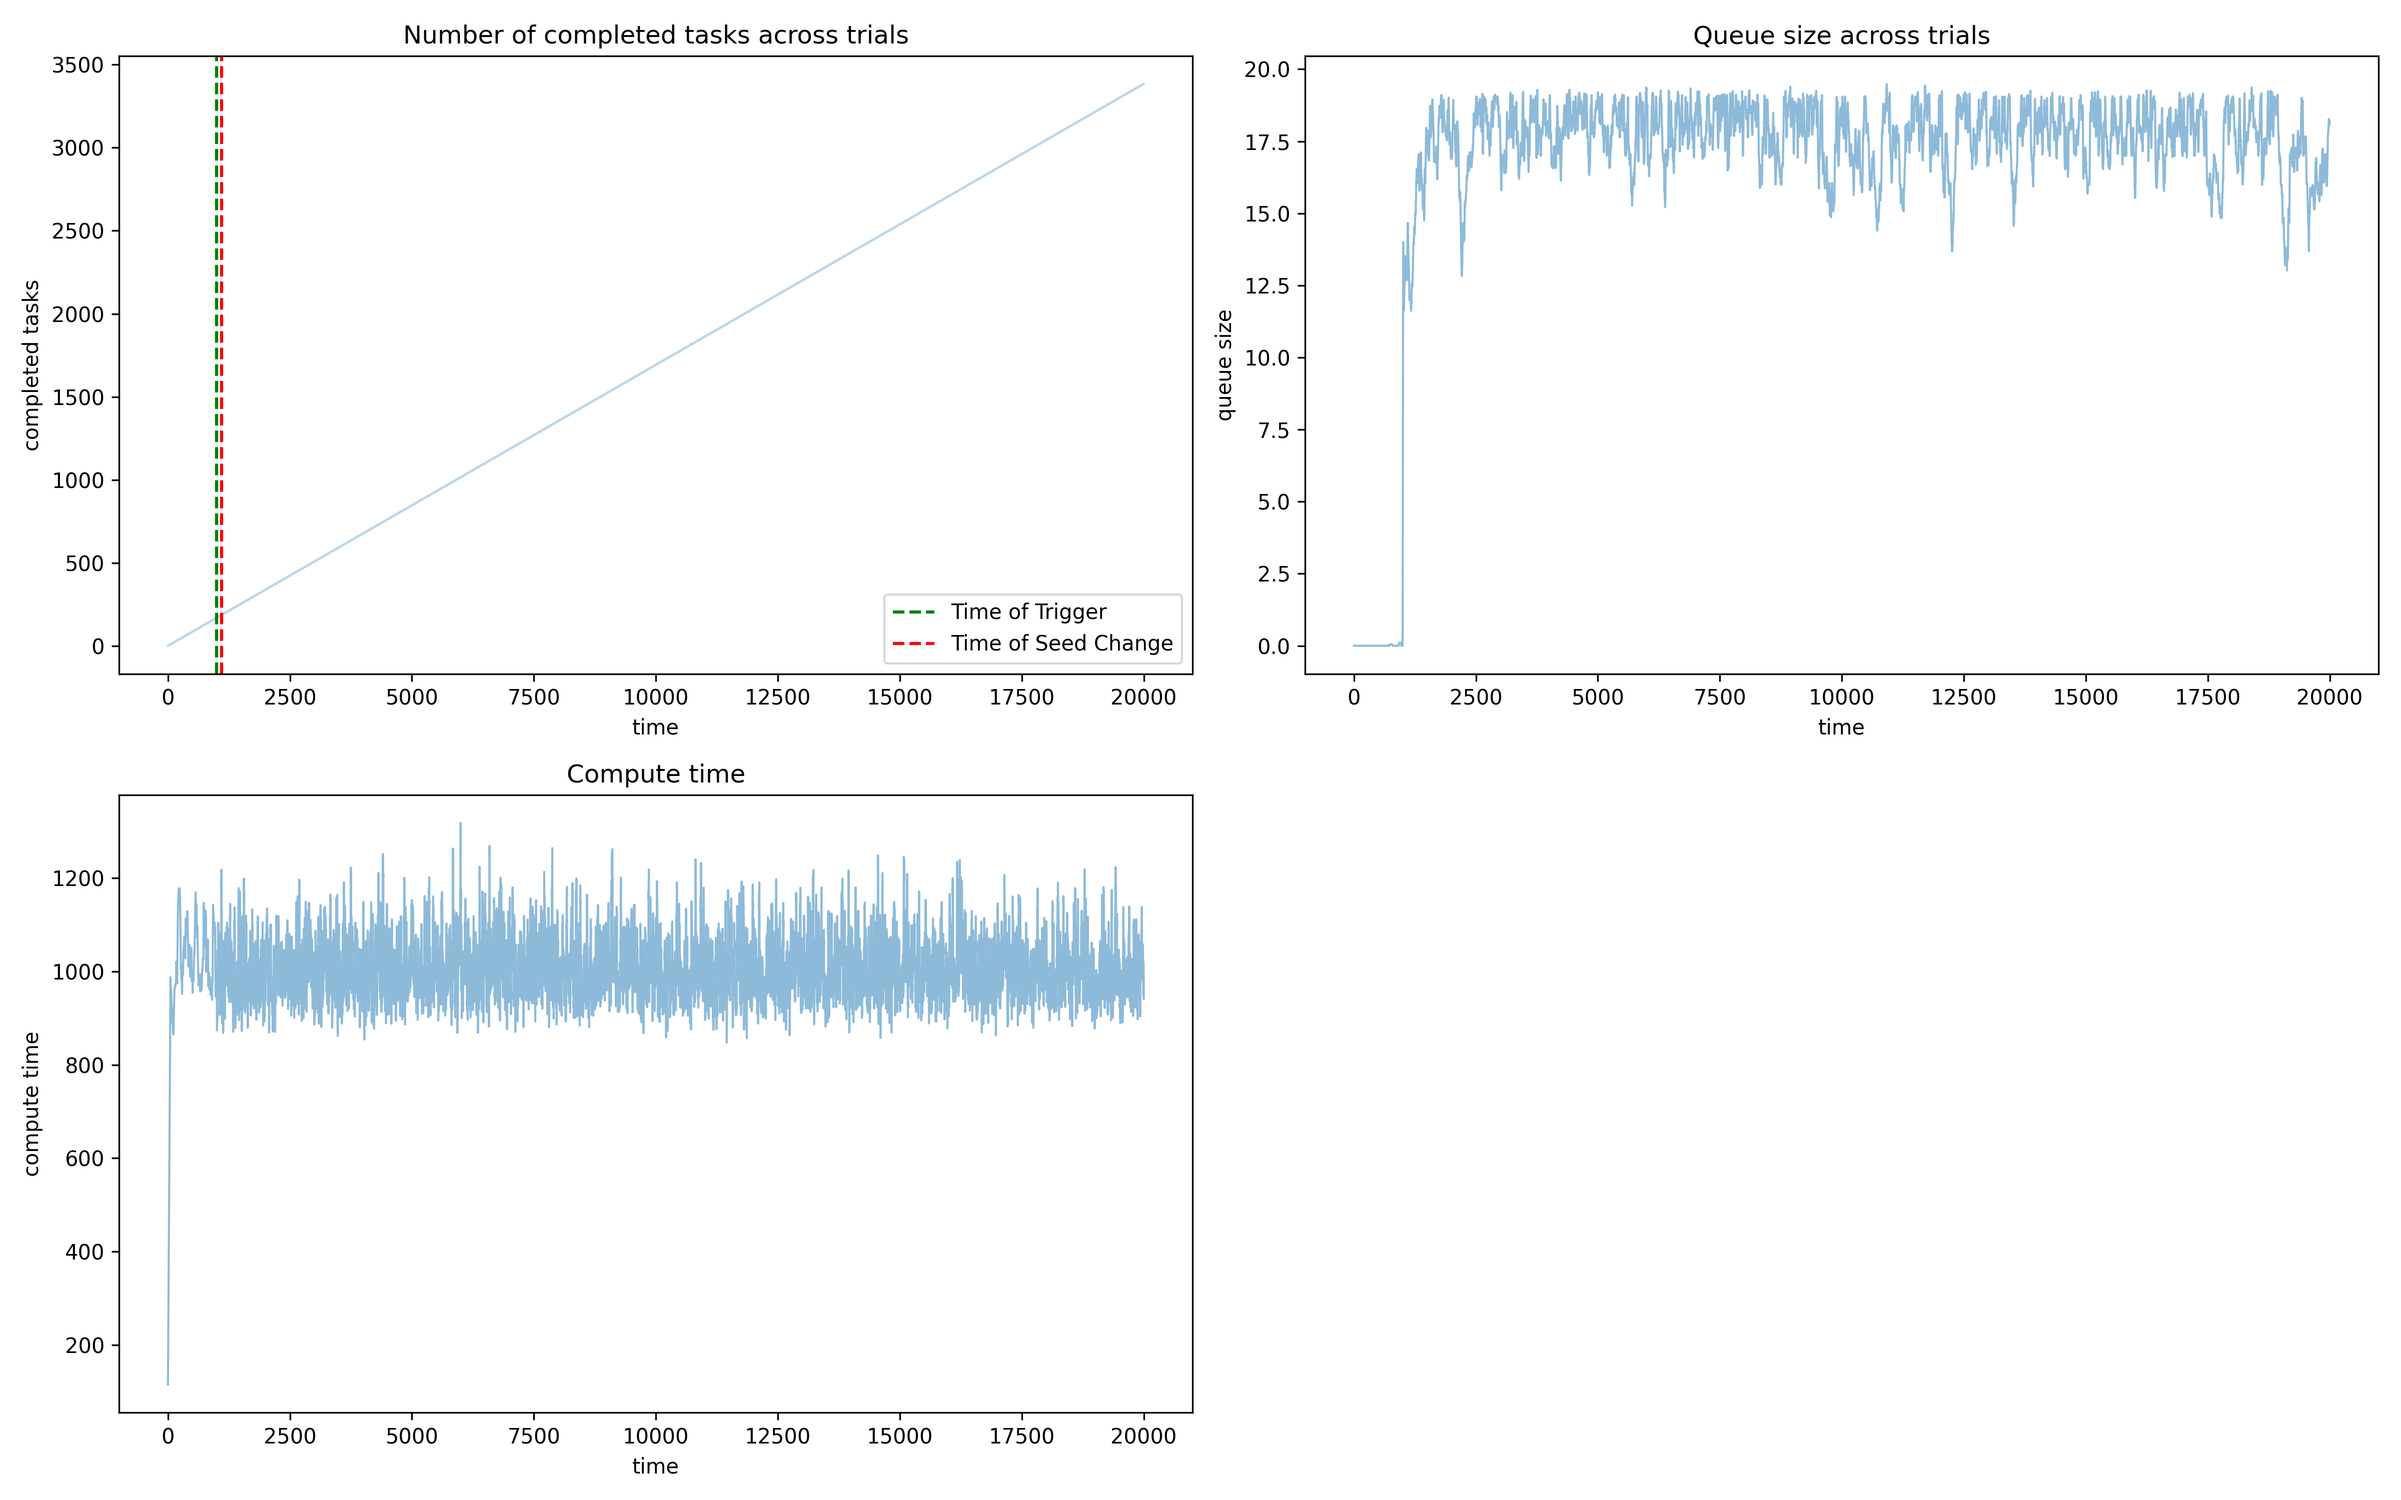
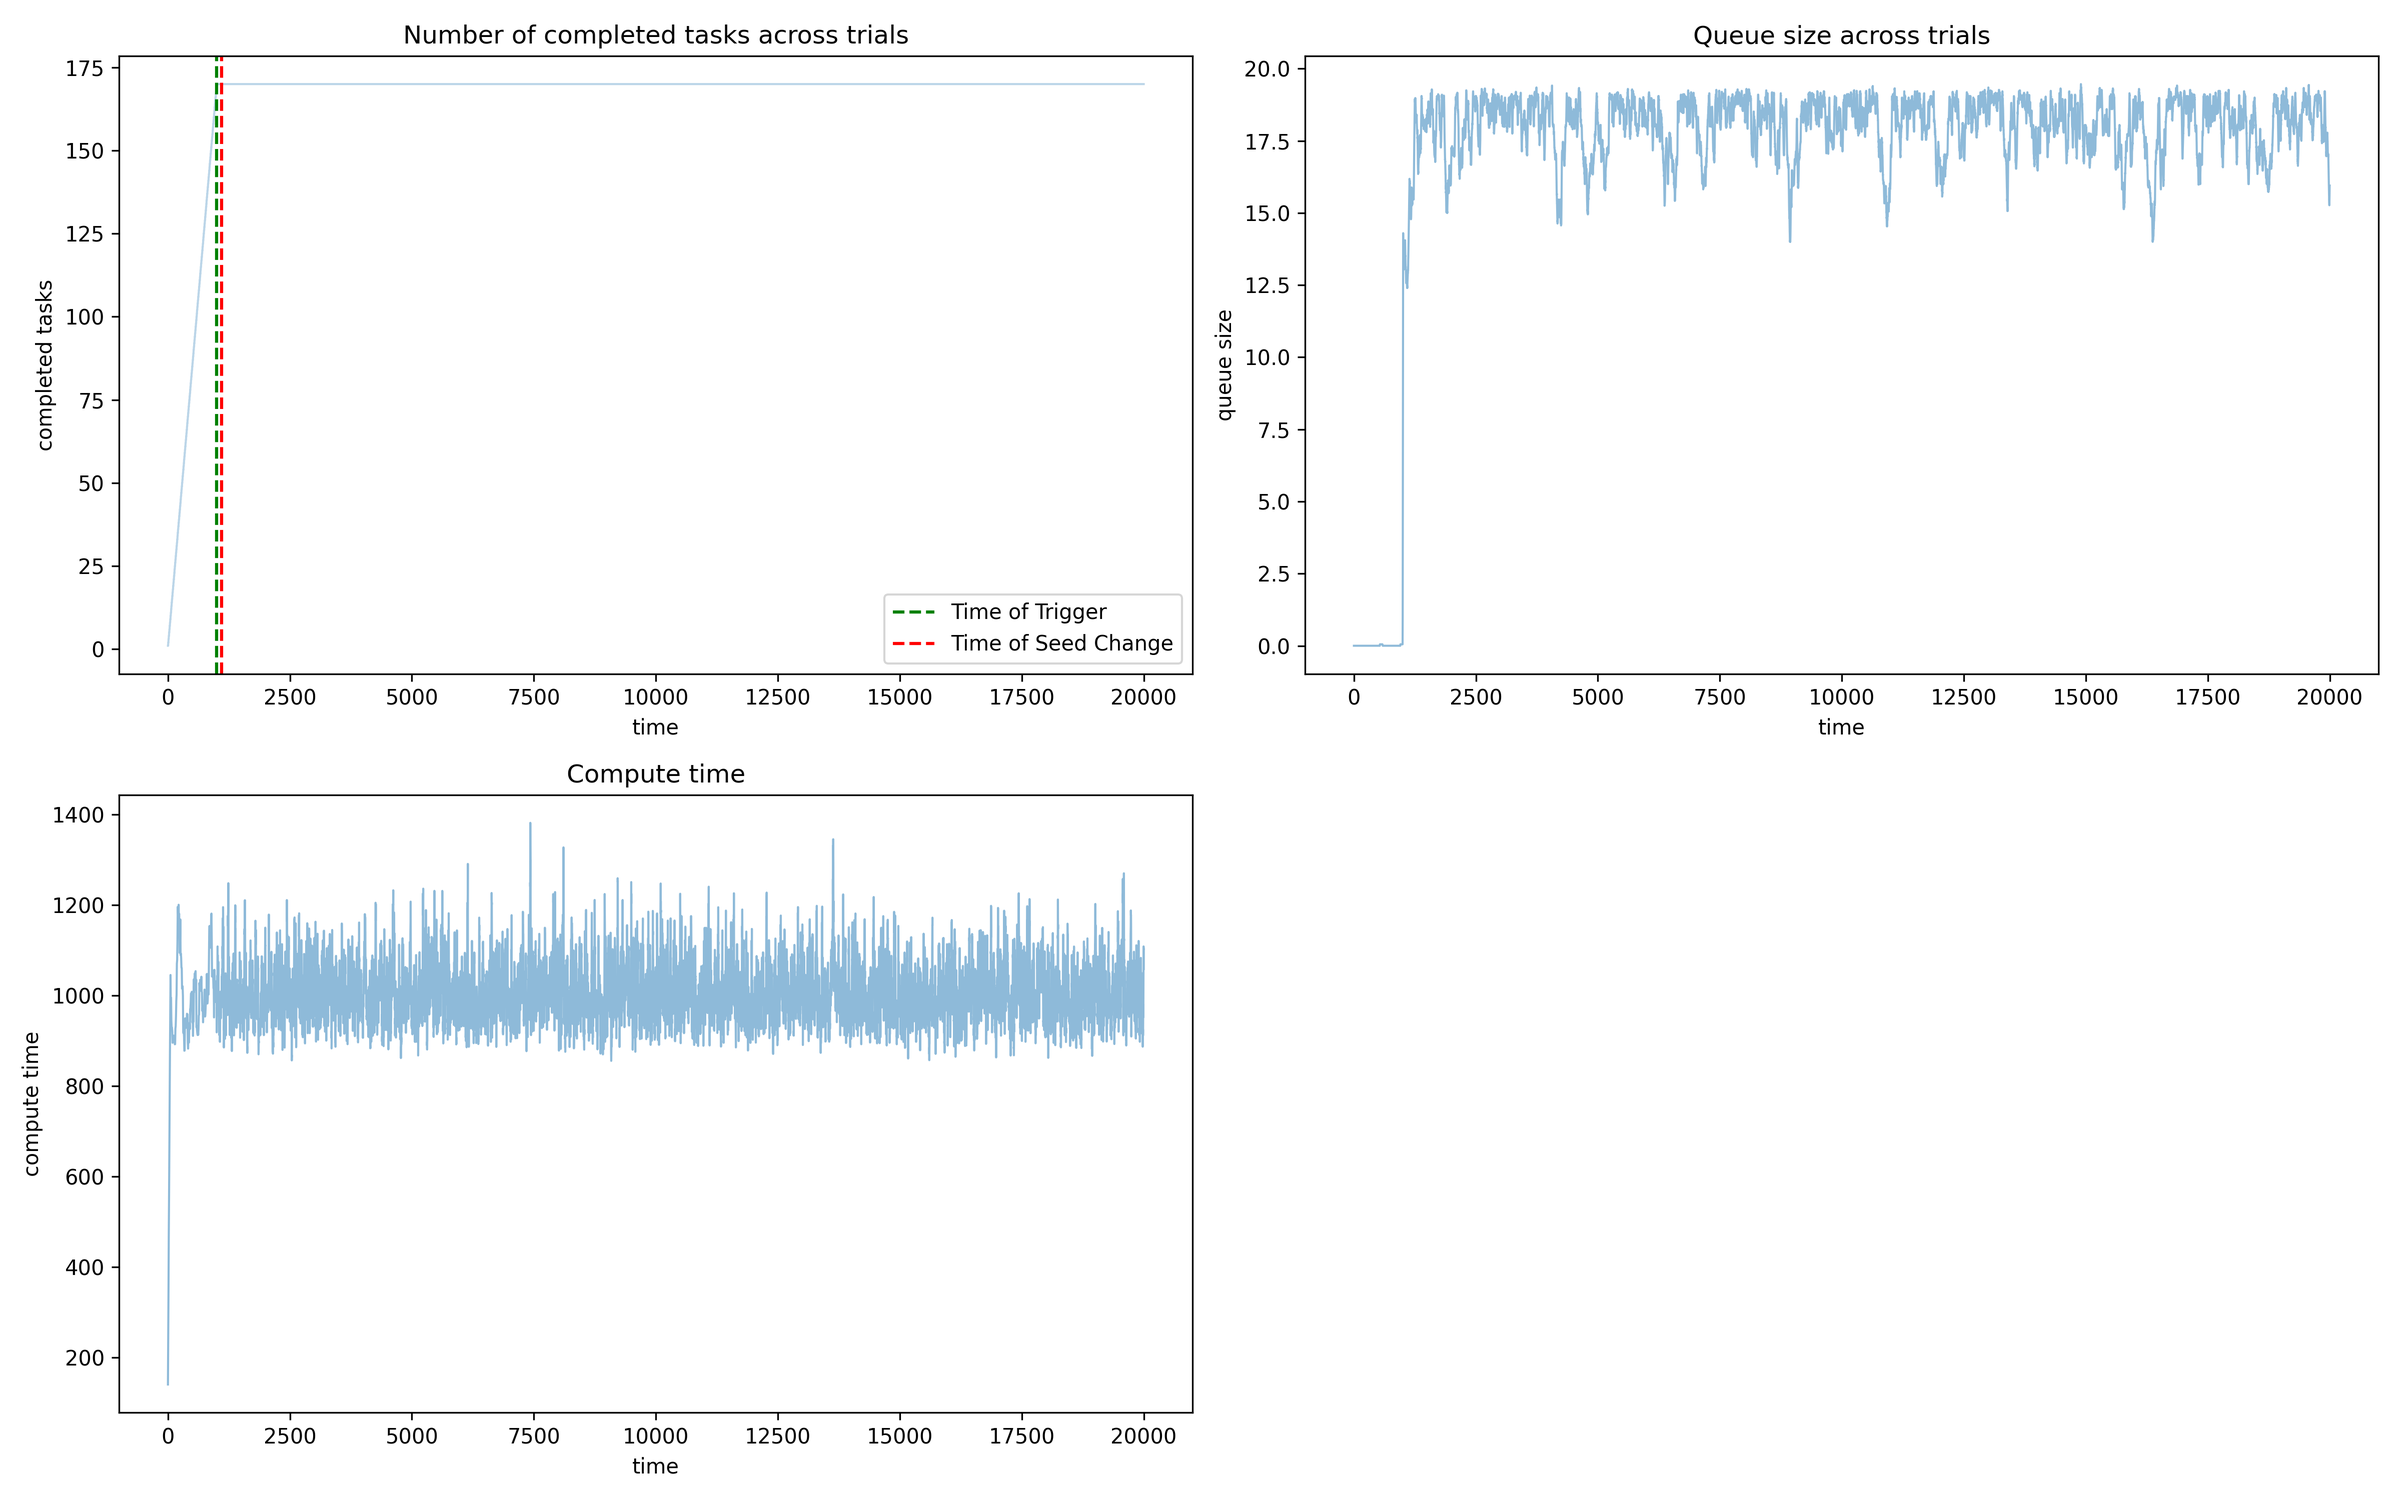
make client retry time independent of queue htiting max size

Changed region(s): [[0.0625, 0.558, 0.5, 0.713], [0.5625, 0.062, 0.9688, 0.155], [0.0, 0.186, 0.0312, 0.279]]

diff --git a/constant_submit_rate.py b/constant_submit_rate.py
@@ -1,4 +1,7 @@
 import concurrent.futures
+from collections import deque
+from collections.abc import Callable
+from dataclasses import dataclass
 from typing import TYPE_CHECKING, Any
 
 import matplotlib.pyplot as plt
@@ -11,33 +14,35 @@ from des.sim import (
     EventLoop,
     Ref,
     RunResult,
+    StateMachineBase,
     Timeout,
-    ask,
+    handle,
     launch,
     log,
     now,
     rng,
-    self,
     send,
     sleep,
     spawn,
     spawn_interface,
+    this,
+    wait,
     wait_timeout,
 )
-from des.stdlib import LaunchedStateMachine, Queue, Semaphore
+from des.stdlib import LaunchedStateMachine, Semaphore
 
 if TYPE_CHECKING:
     from matplotlib.axes import Axes
 
 
-def constant_retry(wait_time: int):
+def constant_rate(wait_time: int):
     def policy(_try_num: int) -> int:
         return wait_time
 
     return policy
 
 
-def linear_backoff_retry(base_wait_time: int, per_try: int):
+def linear_backoff(base_wait_time: int, per_try: int):
     def policy(try_num: int) -> int:
         return base_wait_time + (per_try * try_num)
 
@@ -54,6 +59,14 @@ def smooth_series(series: pl.Series, avg_window: int) -> pl.Series:
     )
 
 
+TASK_DONE = "task done"
+WORKER_COMPLETED = "work_completed"
+QUEUE_SIZE = "queue size"
+CLIENT_SUBMIT = "client submit"
+CLIENT_RETRY = "client retry"
+TASK_FAILED = "task failed"
+
+
 def analyze_data(result: RunResult):
     max_epoch_s = max(e.epoch for e in result.logs) // 1000 + 1
 
@@ -64,7 +77,7 @@ def analyze_data(result: RunResult):
             [
                 (entry.data["start"] // 1000,)
                 for entry in result.logs
-                if entry.msg == "done" and entry.addr.name.startswith("client")
+                if entry.msg == TASK_DONE
             ],
             schema=["epoch"],
             orient="row",
@@ -91,7 +104,7 @@ def analyze_data(result: RunResult):
             [
                 (entry.epoch // 1000, entry.data["size"])
                 for entry in result.logs
-                if entry.msg == "queue size"
+                if entry.msg == QUEUE_SIZE
             ],
             schema=["epoch", "size"],
             orient="row",
@@ -108,7 +121,7 @@ def analyze_data(result: RunResult):
             [
                 (entry.epoch // 3000)
                 for entry in result.logs
-                if entry.addr.name.startswith("client") and entry.msg == "submit"
+                if entry.msg == CLIENT_SUBMIT
             ],
             schema=["epoch"],
             orient="row",
@@ -123,7 +136,11 @@ def analyze_data(result: RunResult):
 
     retries = (
         pl.DataFrame(
-            [(entry.epoch // 3000) for entry in result.logs if entry.msg == "retry"],
+            [
+                (entry.epoch // 3000)
+                for entry in result.logs
+                if entry.msg == CLIENT_RETRY
+            ],
             schema=["epoch"],
             orient="row",
         )
@@ -148,7 +165,7 @@ def analyze_data(result: RunResult):
                     entry.data["compute_time"],
                 )
                 for entry in result.logs
-                if entry.msg == "work_completed"
+                if entry.msg == WORKER_COMPLETED
             ],
             schema=["epoch", "compute_time"],
             orient="row",
@@ -169,111 +186,153 @@ def analyze_data(result: RunResult):
     }
 
 
+class Queue[T](StateMachineBase):
+    def __init__(self, capacity: int, log_event: str = "queue size"):
+        self._capacity = capacity
+        self._items = deque[T]()
+        self._waiters: deque[tuple[Addr, Ref]] = deque()
+        self._log_event = log_event
+
+    def _log_size(self):
+        log(self._log_event, size=len(self._items))
+
+    @handle()
+    async def try_enqueue(self, item: T, result: tuple[Addr, Ref] | None = None):
+        """Attempt to enqueue an item.
+        If result is provided, it sends `True` if it was enqueued, `False` if full.
+        """
+        if len(self._items) >= self._capacity:
+            if result is not None:
+                send(*result, False)
+        else:
+            self._items.append(item)
+            while self._waiters and self._items:
+                send(*self._waiters.popleft(), self._items.popleft())
+            self._log_size()
+            if result is not None:
+                send(*result, True)
+
+    @handle()
+    async def _dequeue(self, sender: Addr, ref: Ref):
+        if self._items:
+            send(sender, ref, self._items.popleft())
+            self._log_size()
+        else:
+            self._waiters.append((sender, ref))
+
+    async def dequeue(self, timeout: int | None = None) -> T:
+        """Dequeue an item, waiting up to timeout if specified.
+        If timeout is provided, and no item is available within the timeout,
+        raises `des.sim.Timeout`.
+        """
+        self._dequeue(this(), ref := Ref())
+        if timeout is None:
+            result, *_ = await wait(ref)
+        else:
+            result, *_ = await wait_timeout(timeout, ref)
+        return result
+
+
 def experiment2(
     work_time: int = 1000,
     work_time_rand: int = 200,
     timeout: int = 1900,
-    retry_delay: int = 100,
     inter_sleep: int = 4000,
     trigger_delay: int = 1_000_000,
     shared_seed: int = 0,
     local_seed: int = 100,
 ):
-    this = self
+    class Worker(LaunchedStateMachine):
+        def __init__(self, queue: Queue[tuple[Addr, WorkItem]]):
+            self._queue = queue
 
-    queue_addr = Addr("queue")
-    queue = Queue[tuple[Addr, Ref]](queue_addr)
-
-    class Worker:
-        def __init__(self, addr: Addr):
-            self.queue_addr = addr
-
-        async def submit(self, ref: Ref, timeout: int) -> bool:
-            log("submit", ref=ref)
-            if await ask(self.queue_addr, Queue.Enqueue, (this(), ref)) is Queue.Full:
-                log("fail", ref=ref, reason="full")
-                return False
-            try:
-                await wait_timeout(timeout, ref)
-            except Timeout:
-                log("fail", ref=ref, reason="timeout")
-                return False
-            return True
-
-    worker = Worker(queue_addr)
-
-    def create_worker():
-        @launch
-        async def worker_process():
+        async def start(self):
             while True:
-                addr, ref = await queue.dequeue()
+                addr, ref = await self._queue.dequeue()
                 compute_time = (
                     work_time
                     - work_time_rand
                     + int(rng().expovariate(1 / work_time_rand))
                 )
                 await sleep(compute_time)
-                log("work_completed", ref=ref, compute_time=compute_time)
+                log(WORKER_COMPLETED, ref=ref, compute_time=compute_time)
                 send(addr, ref, hint="done")
 
-        return worker_process
-
     class BackgroundSubmit(LaunchedStateMachine):
-        def __init__(self, worker: Worker, ref: Ref, semaphore: Semaphore):
-            self.worker = worker
-            self.ref = ref
+        def __init__(
+            self,
+            worker_queue: Queue[tuple[Addr, WorkItem]],
+            semaphore: Semaphore,
+            timeout_policy: Callable[[int], int],
+        ):
+            self.worker_queue = worker_queue
             self.semaphore = semaphore
+            self.timeout_policy = timeout_policy
 
         async def start(self):
             await self.semaphore.acquire()
             start_time = now()
-            retries = 0
-            while not await worker.submit(self.ref, timeout=timeout):
-                retries += 1
-                if retries >= 6:
-                    log("abandon", ref=self.ref, retries=retries)
-                    break
-                log("retry", ref=self.ref, retries=retries)
-                await sleep(retry_delay)
-            self.semaphore.release()
-            log(
-                "done",
-                ref=self.ref,
-                retries=retries,
-                start=start_time,
-                duration=now() - start_time,
-            )
-
-    def create_client():
-        @launch
-        async def client():
-            semaphore = spawn_interface(Semaphore(max_count=4), name="semaphore")
-
+            num_retries = 0
+            # TODO: should this be before or after acquiring the semaphore?
+            log(CLIENT_SUBMIT)
             while True:
-                ref = Ref()
-                spawn(
-                    BackgroundSubmit(worker=worker, ref=ref, semaphore=semaphore),
-                    name="submit",
-                )
-                print("spawned", now())
-                await sleep(timeout + inter_sleep)
+                item = WorkItem(Ref())
+                self.worker_queue.try_enqueue((this(), item))
+                try:
+                    await wait_timeout(self.timeout_policy(num_retries), item)
+                    log(
+                        TASK_DONE,
+                        retries=num_retries,
+                        start=start_time,
+                        duration=now() - start_time,
+                    )
+                    break
+                except Timeout:
+                    num_retries += 1
+                if num_retries >= 6:
+                    log(TASK_FAILED)
+                    break
+            self.semaphore.release()
 
-        return client
+    @dataclass
+    class WorkItem:
+        """Newtype of `Ref` to make it clear that this does not represent a simple response channel."""
 
-    def create_trigger():
-        @launch
-        async def trigger():
+        id: Ref
+
+    class Trigger(LaunchedStateMachine):
+        def __init__(self, worker_queue: Queue[tuple[Addr, WorkItem]]):
+            self.worker_queue = worker_queue
+
+        async def start(self):
             await sleep(trigger_delay)
             for _ in range(20):
-                await worker.submit(Ref(), timeout=50)
+                self.worker_queue.try_enqueue((this(), WorkItem(Ref())))
+                await sleep(50)
 
-        return trigger
+    @launch
+    async def main():
+        worker_queue = spawn_interface(
+            Queue[tuple[Addr, WorkItem]](capacity=20, log_event=QUEUE_SIZE),
+            name="worker_queue",
+        )
+        spawn(Worker(queue=worker_queue), name="worker")
+        semaphore = spawn_interface(Semaphore(max_count=4), name="semaphore")
+        spawn(Trigger(worker_queue=worker_queue), name="trigger")
+
+        while True:
+            spawn(
+                BackgroundSubmit(
+                    worker_queue=worker_queue,
+                    semaphore=semaphore,
+                    timeout_policy=constant_rate(timeout),
+                ),
+                name="submit",
+            )
+            await sleep(timeout + inter_sleep)
 
     el = EventLoop(seed=shared_seed)
-    el.spawn(queue_addr, lambda: Queue.create(max_size=20))
-    el.spawn(Addr("worker"), create_worker)
-    el.spawn(Addr("client"), create_client)
-    el.spawn(Addr("trigger"), create_trigger)
+    el.spawn(Addr("main"), main)
     reseed_time = trigger_delay + 100_000
     el.run(reseed_time)
 
